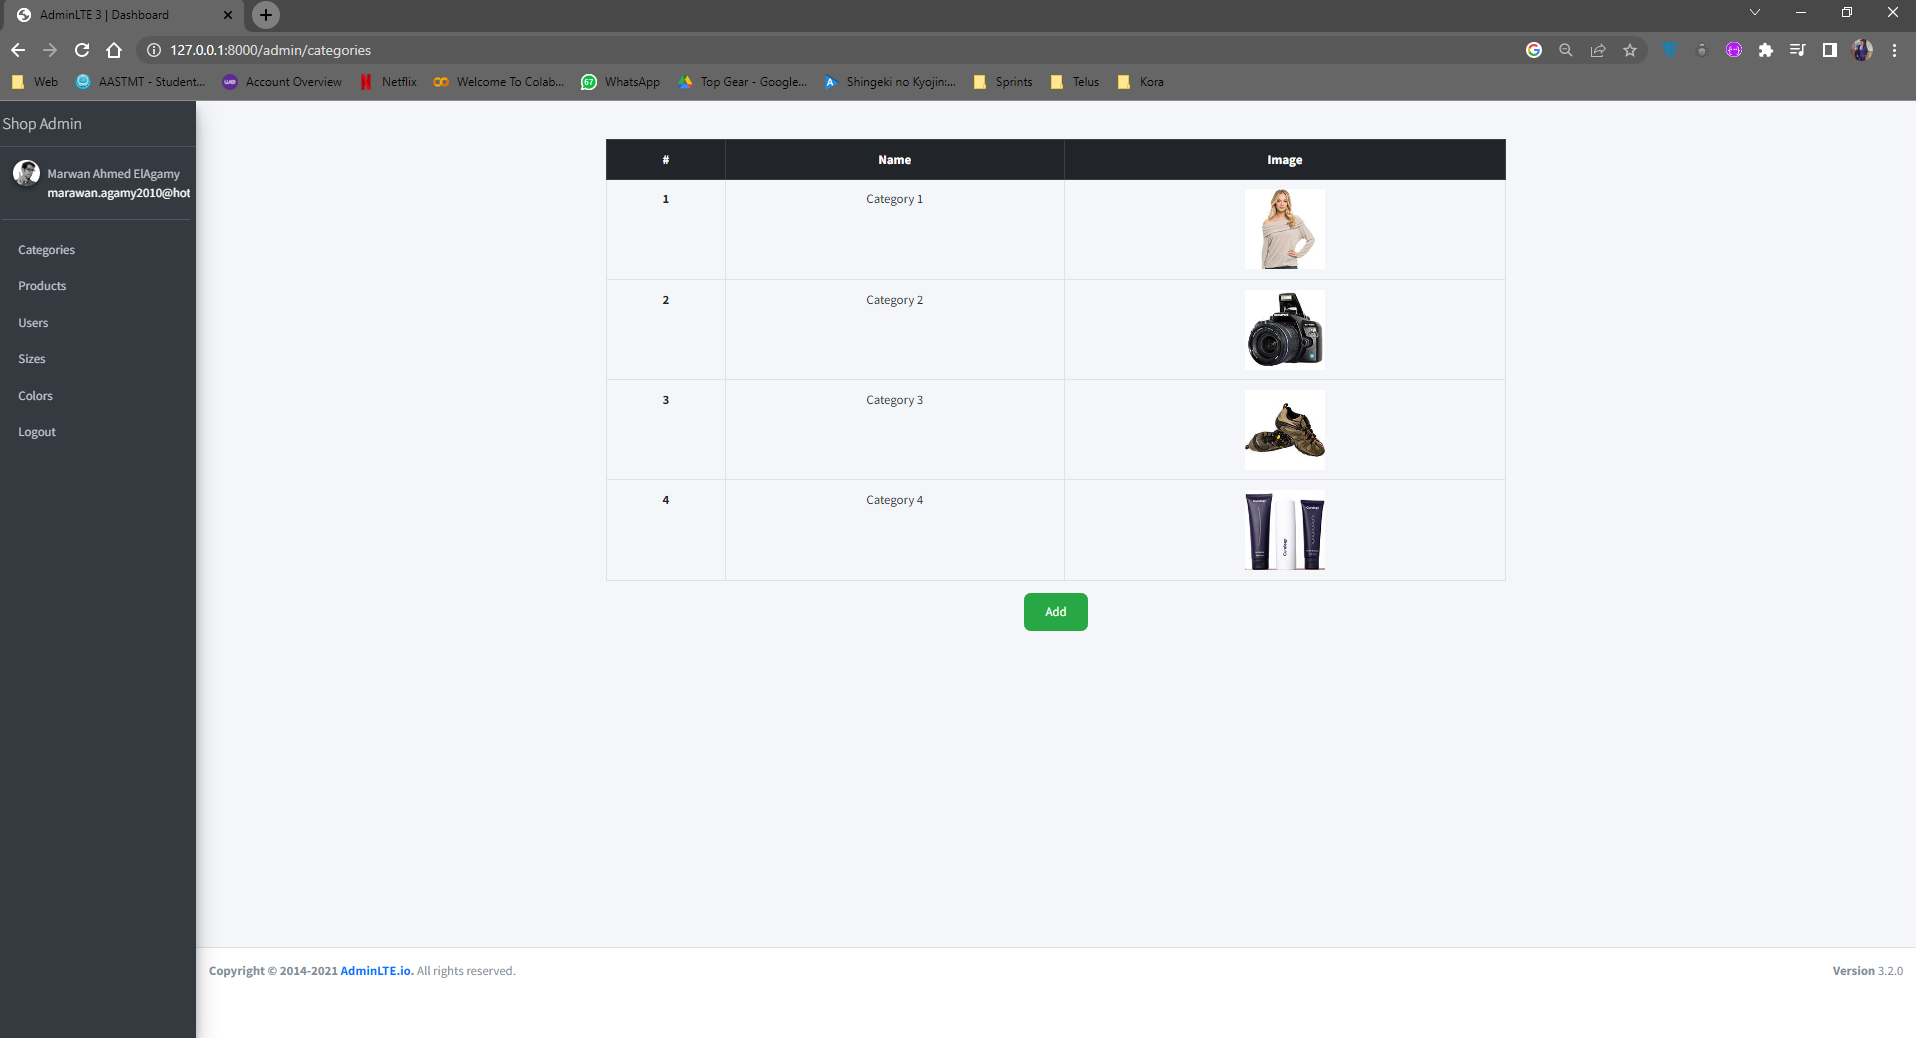
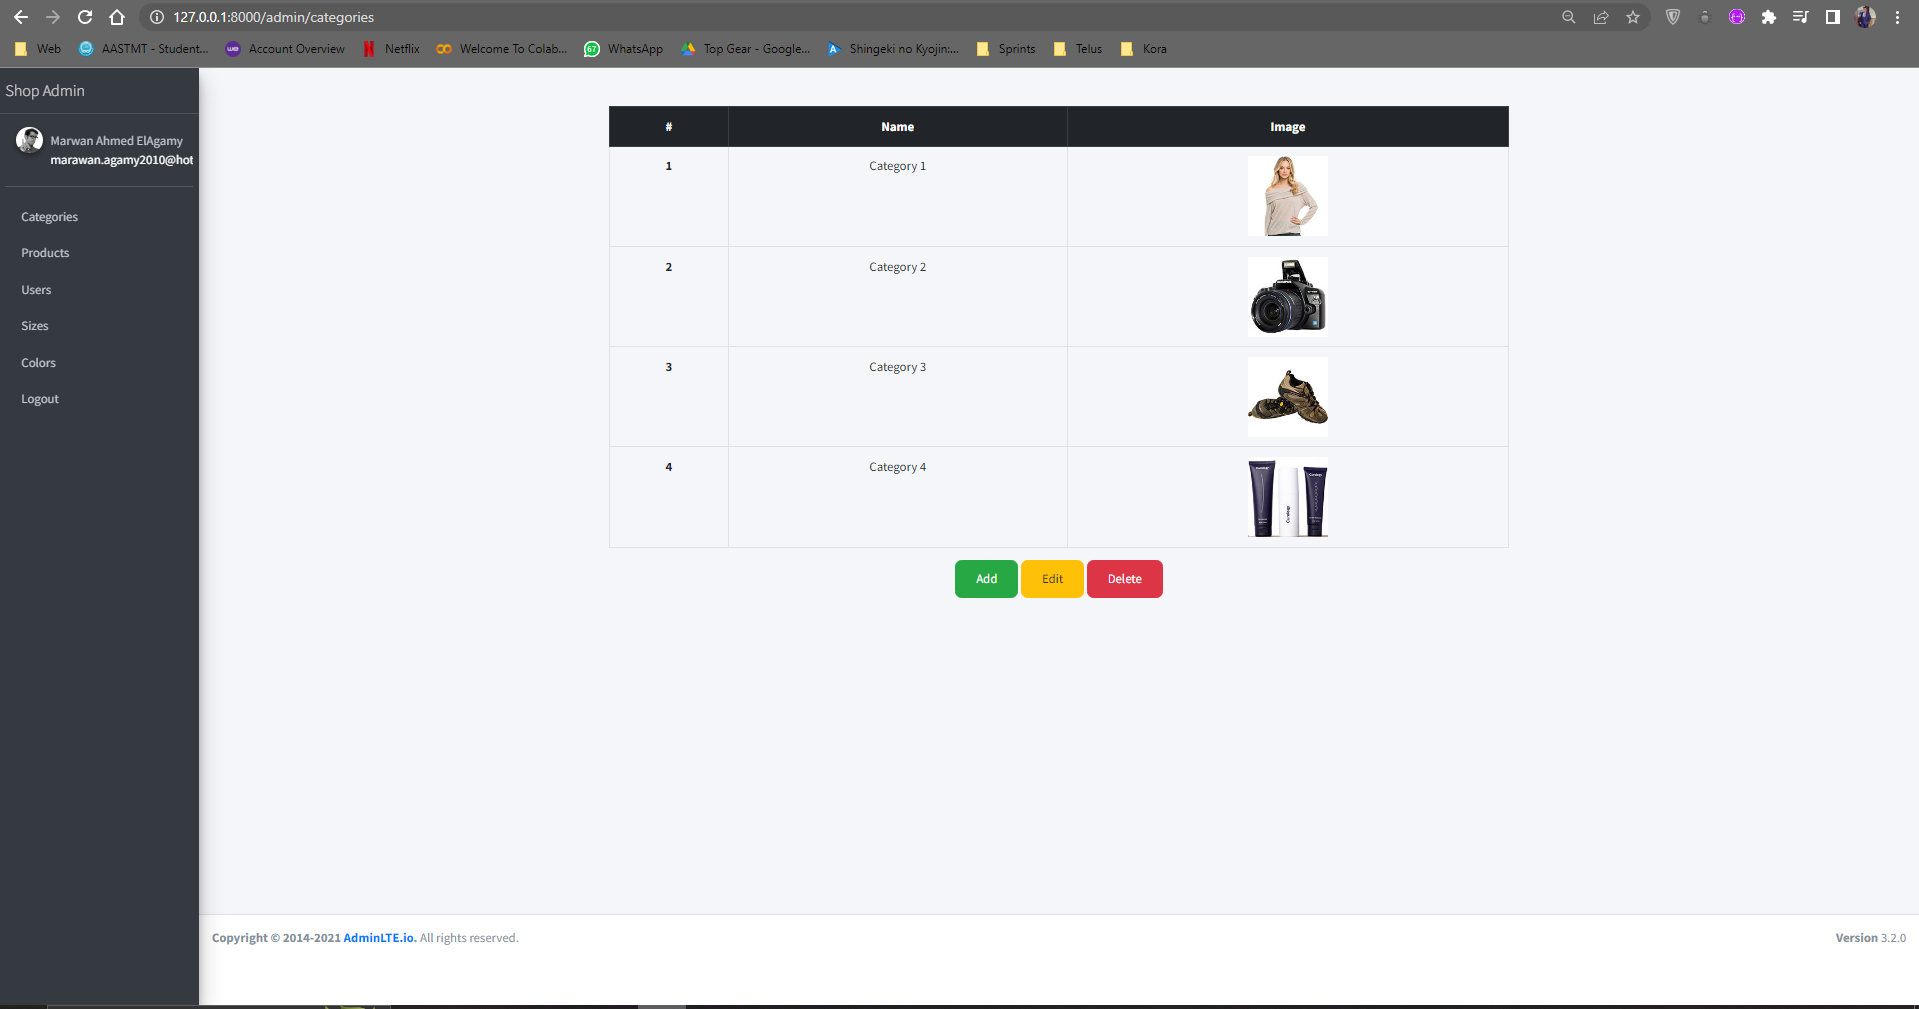
S_LAR_01: Convert Template into Laravel

diff --git a/Laravel-Task-1/resources/views/layouts/admin_categories.blade.php b/Laravel-Task-1/resources/views/layouts/admin_categories.blade.php
@@ -159,6 +159,10 @@
                 </table>
                 <a href="add-products.php"><button type="button" class="btn btn-success"
                         id="add-btn">Add</button></a>
+                <a href="add-products.php"><button type="button" class="btn btn-warning"
+                            id="add-btn">Edit</button></a>
+                <a href="add-products.php"><button type="button" class="btn btn-danger"
+                                id="add-btn">Delete</button></a>        
             </div>
         </div>
         <!-- /.content-wrapper -->
